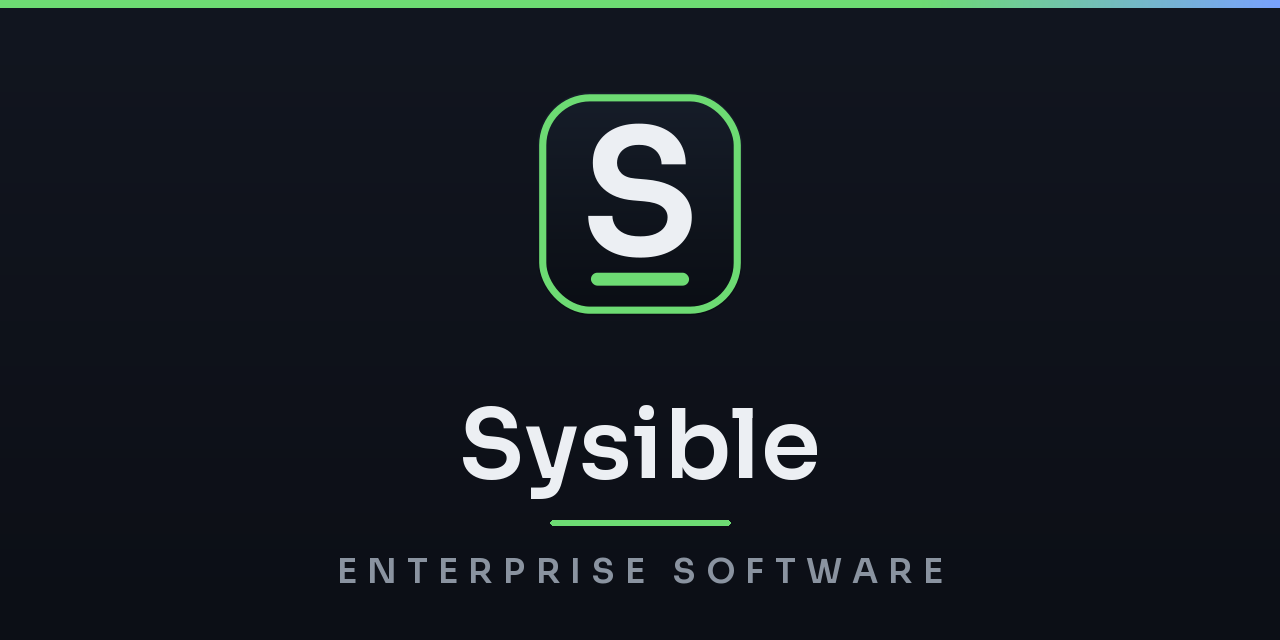
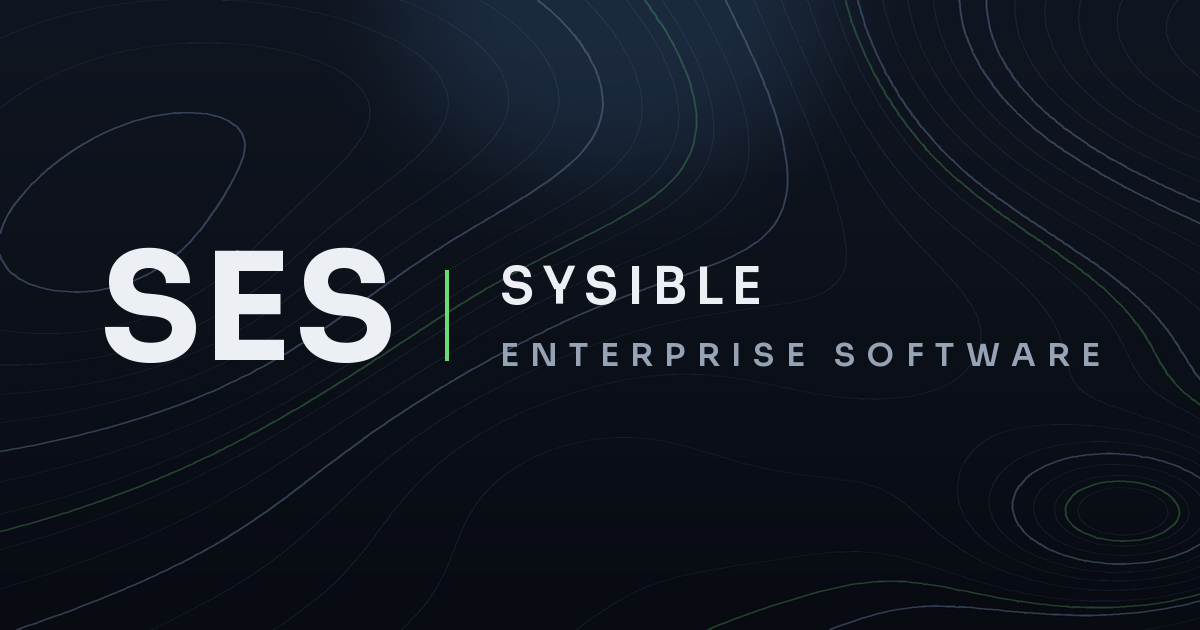
Brand the site under Sysible Enterprise Software (SES)
* social-card.png rebuilt on the SES master mark (SES + SYSIBLE / ENTERPRISE
  SOFTWARE on the topo field) — og:image/twitter:image already point at it
* apple-touch-icon.png (180) + icon-512.png added and linked in every page
  head (favicon.svg stays the crisp S-tile for the browser tab)
* footer on every page notes the products are Sysible Enterprise Software (SES)

diff --git a/controller-manual.html b/controller-manual.html
@@ -1,5 +1,5 @@
 <!DOCTYPE html><html lang="en"><head><meta charset="UTF-8"><title>Sysible Controller — Administrator &amp; User Guide</title>
-<link rel="icon" type="image/svg+xml" href="/favicon.svg"><meta name="viewport" content="width=device-width, initial-scale=1"><style>
+<link rel="icon" type="image/svg+xml" href="/favicon.svg"><link rel="apple-touch-icon" href="/apple-touch-icon.png"><link rel="icon" type="image/png" sizes="512x512" href="/icon-512.png"><meta name="viewport" content="width=device-width, initial-scale=1"><style>
 :root{--navy:#1a2744;--blue:#2f6fed;--ink:#202733;--dim:#5b6573;--hair:#e2e6ee;
 --bg:#eef1f6;--paper:#fff;--green:#2f9e44;--amber:#e0a93c;--red:#e05656;--code:#f4f6fa;}
 *{box-sizing:border-box;}
@@ -208,4 +208,5 @@ and manage its credentials and sessions from Settings.</p>
 <li><b>HTTPS everywhere</b>, TOFU SSH host-key pinning, and secrets (sudo/SMTP passwords) encrypted at rest.</li>
 <li><b>Session cookie</b> — signed, http-only, SameSite=Strict; the controller API key never reaches the browser.</li>
 </ul>
-</div><footer><span class="foot-mark"><svg viewBox="-24 -26 48 52" width="30" height="33" role="img" aria-label="Sysible"><defs><linearGradient id="tgFoot" x1="0" y1="-25" x2="0" y2="25" gradientUnits="userSpaceOnUse"><stop offset="0" stop-color="#161d29"/><stop offset="1" stop-color="#0a0d13"/></linearGradient></defs><rect x="-23" y="-25" width="46" height="50" rx="12" fill="url(#tgFoot)"/><rect x="-21.8" y="-23.8" width="43.6" height="47.6" rx="10.6" fill="none" stroke="#6ddb73" stroke-width="1.6"/><path transform="translate(-13.124 11.274) scale(0.039 -0.039)" d="M338.5 -19Q242 -19 175.25 12.0Q108.5 43 73.75 97.25Q39 151.5 39 221H178Q178 191.5 194.0 164.25Q210 137 245.25 120.0Q280.5 103 338.5 103Q391 103 425.75 117.75Q460.5 132.5 477.75 157.25Q495 182 495 213Q495 251.5 462.0 275.0Q429 298.5 359.5 304.5L295.5 310Q190.5 319 128.0 375.5Q65.5 432 65.5 525Q65.5 594.5 98.5 645.0Q131.5 695.5 191.0 723.25Q250.5 751 330.5 751Q413.5 751 473.75 722.0Q534 693 566.75 640.5Q599.5 588 599.5 517H460.5Q460.5 546.5 446.25 572.0Q432 597.5 403.25 613.25Q374.5 629 330.5 629Q288.5 629 260.5 614.75Q232.5 600.5 218.5 576.75Q204.5 553 204.5 525Q204.5 491 229.5 465.5Q254.5 440 308.5 435.5L372.5 430Q451 423.5 509.75 396.5Q568.5 369.5 601.25 323.75Q634 278 634 213Q634 144 597.75 91.5Q561.5 39 495.25 10.0Q429 -19 338.5 -19Z" fill="#eceff3"/><rect x="-11" y="15.4" width="22" height="2.9" rx="1.45" fill="#6ddb73"/></svg></span>Sysible Controller v3.0.0 — generated 2026-07-02 by tools/generate_docs.py</footer></body></html>
+</div><footer><span class="foot-mark"><svg viewBox="-24 -26 48 52" width="30" height="33" role="img" aria-label="Sysible"><defs><linearGradient id="tgFoot" x1="0" y1="-25" x2="0" y2="25" gradientUnits="userSpaceOnUse"><stop offset="0" stop-color="#161d29"/><stop offset="1" stop-color="#0a0d13"/></linearGradient></defs><rect x="-23" y="-25" width="46" height="50" rx="12" fill="url(#tgFoot)"/><rect x="-21.8" y="-23.8" width="43.6" height="47.6" rx="10.6" fill="none" stroke="#6ddb73" stroke-width="1.6"/><path transform="translate(-13.124 11.274) scale(0.039 -0.039)" d="M338.5 -19Q242 -19 175.25 12.0Q108.5 43 73.75 97.25Q39 151.5 39 221H178Q178 191.5 194.0 164.25Q210 137 245.25 120.0Q280.5 103 338.5 103Q391 103 425.75 117.75Q460.5 132.5 477.75 157.25Q495 182 495 213Q495 251.5 462.0 275.0Q429 298.5 359.5 304.5L295.5 310Q190.5 319 128.0 375.5Q65.5 432 65.5 525Q65.5 594.5 98.5 645.0Q131.5 695.5 191.0 723.25Q250.5 751 330.5 751Q413.5 751 473.75 722.0Q534 693 566.75 640.5Q599.5 588 599.5 517H460.5Q460.5 546.5 446.25 572.0Q432 597.5 403.25 613.25Q374.5 629 330.5 629Q288.5 629 260.5 614.75Q232.5 600.5 218.5 576.75Q204.5 553 204.5 525Q204.5 491 229.5 465.5Q254.5 440 308.5 435.5L372.5 430Q451 423.5 509.75 396.5Q568.5 369.5 601.25 323.75Q634 278 634 213Q634 144 597.75 91.5Q561.5 39 495.25 10.0Q429 -19 338.5 -19Z" fill="#eceff3"/><rect x="-11" y="15.4" width="22" height="2.9" rx="1.45" fill="#6ddb73"/></svg></span>Sysible Controller v3.0.0 — generated 2026-07-02 by tools/generate_docs.py  <div class="wrap" style="margin-top:14px;font-size:12.5px;opacity:.8"><span>Sysible Linux, SysTerm &amp; Controller are products of <b style="font-weight:600">Sysible Enterprise&nbsp;Software</b> (SES).</span></div>
+</footer></body></html>

diff --git a/controller.html b/controller.html
@@ -1,5 +1,5 @@
 <title>Sysible Controller — IT infrastructure management for Linux fleets</title>
-<link rel="icon" type="image/svg+xml" href="/favicon.svg">
+<link rel="icon" type="image/svg+xml" href="/favicon.svg"><link rel="apple-touch-icon" href="/apple-touch-icon.png"><link rel="icon" type="image/png" sizes="512x512" href="/icon-512.png">
 <meta name="viewport" content="width=device-width, initial-scale=1">
 <meta name="description" content="Sysible Controller is a self-hosted, point-and-click operations console for Linux fleets — users, health, services, packages, storage, networking, firewall and a live terminal, over an agent or SSH. No DSL, no control repo, no apply step.">
 <link rel="canonical" href="https://sysible.com/controller">
@@ -433,6 +433,7 @@ install-sysible-controller</pre>
       <a href="https://github.com/sysiblesoftware" rel="noopener">GitHub</a>
     </nav>
   </div>
+  <div class="wrap" style="margin-top:14px;font-size:12.5px;opacity:.8"><span>Sysible Linux, SysTerm &amp; Controller are products of <b style="font-weight:600">Sysible Enterprise&nbsp;Software</b> (SES).</span></div>
 </footer>
 
 <svg width="0" height="0" style="position:absolute" aria-hidden="true">

diff --git a/atlas.html b/atlas.html
@@ -1,5 +1,5 @@
 <title>Sysible Atlas — the AI companion in your terminal</title>
-<link rel="icon" type="image/svg+xml" href="/favicon.svg">
+<link rel="icon" type="image/svg+xml" href="/favicon.svg"><link rel="apple-touch-icon" href="/apple-touch-icon.png"><link rel="icon" type="image/png" sizes="512x512" href="/icon-512.png">
 <meta name="viewport" content="width=device-width, initial-scale=1">
 <meta name="description" content="Sysible Atlas is a local-model AI companion built into the SysTerm terminal on Sysible Linux. It reads your session, explains failed commands, answers questions, and hands you ready-to-run fixes — all on-device, nothing leaves the machine.">
 <link rel="canonical" href="https://sysible.com/atlas">
@@ -262,6 +262,7 @@
       <a href="https://github.com/sysiblesoftware" rel="noopener">GitHub</a>
     </nav>
   </div>
+  <div class="wrap" style="margin-top:14px;font-size:12.5px;opacity:.8"><span>Sysible Linux, SysTerm &amp; Controller are products of <b style="font-weight:600">Sysible Enterprise&nbsp;Software</b> (SES).</span></div>
 </footer>
 
 <!-- ===================== shared inline SVG mark ===================== -->

diff --git a/index.html b/index.html
@@ -1,6 +1,6 @@
 <meta charset="utf-8">
 <title>Sysible — Downloads</title>
-<link rel="icon" type="image/svg+xml" href="/favicon.svg">
+<link rel="icon" type="image/svg+xml" href="/favicon.svg"><link rel="apple-touch-icon" href="/apple-touch-icon.png"><link rel="icon" type="image/png" sizes="512x512" href="/icon-512.png">
 <meta name="viewport" content="width=device-width, initial-scale=1">
 <meta name="description" content="Download Sysible Linux — the engineering & automation workstation OS — and Sysible Controller CE. Installable ISOs for amd64 and arm64 with checksums.">
 <link rel="canonical" href="https://sysible.com/">
@@ -362,6 +362,7 @@ install-sysible-controller</pre>
       <a href="https://github.com/sysiblesoftware" rel="noopener">GitHub</a>
     </nav>
   </div>
+  <div class="wrap" style="margin-top:14px;font-size:12.5px;opacity:.8"><span>Sysible Linux, SysTerm &amp; Controller are products of <b style="font-weight:600">Sysible Enterprise&nbsp;Software</b> (SES).</span></div>
 </footer>
 
 <!-- ===================== shared inline SVG marks ===================== -->
